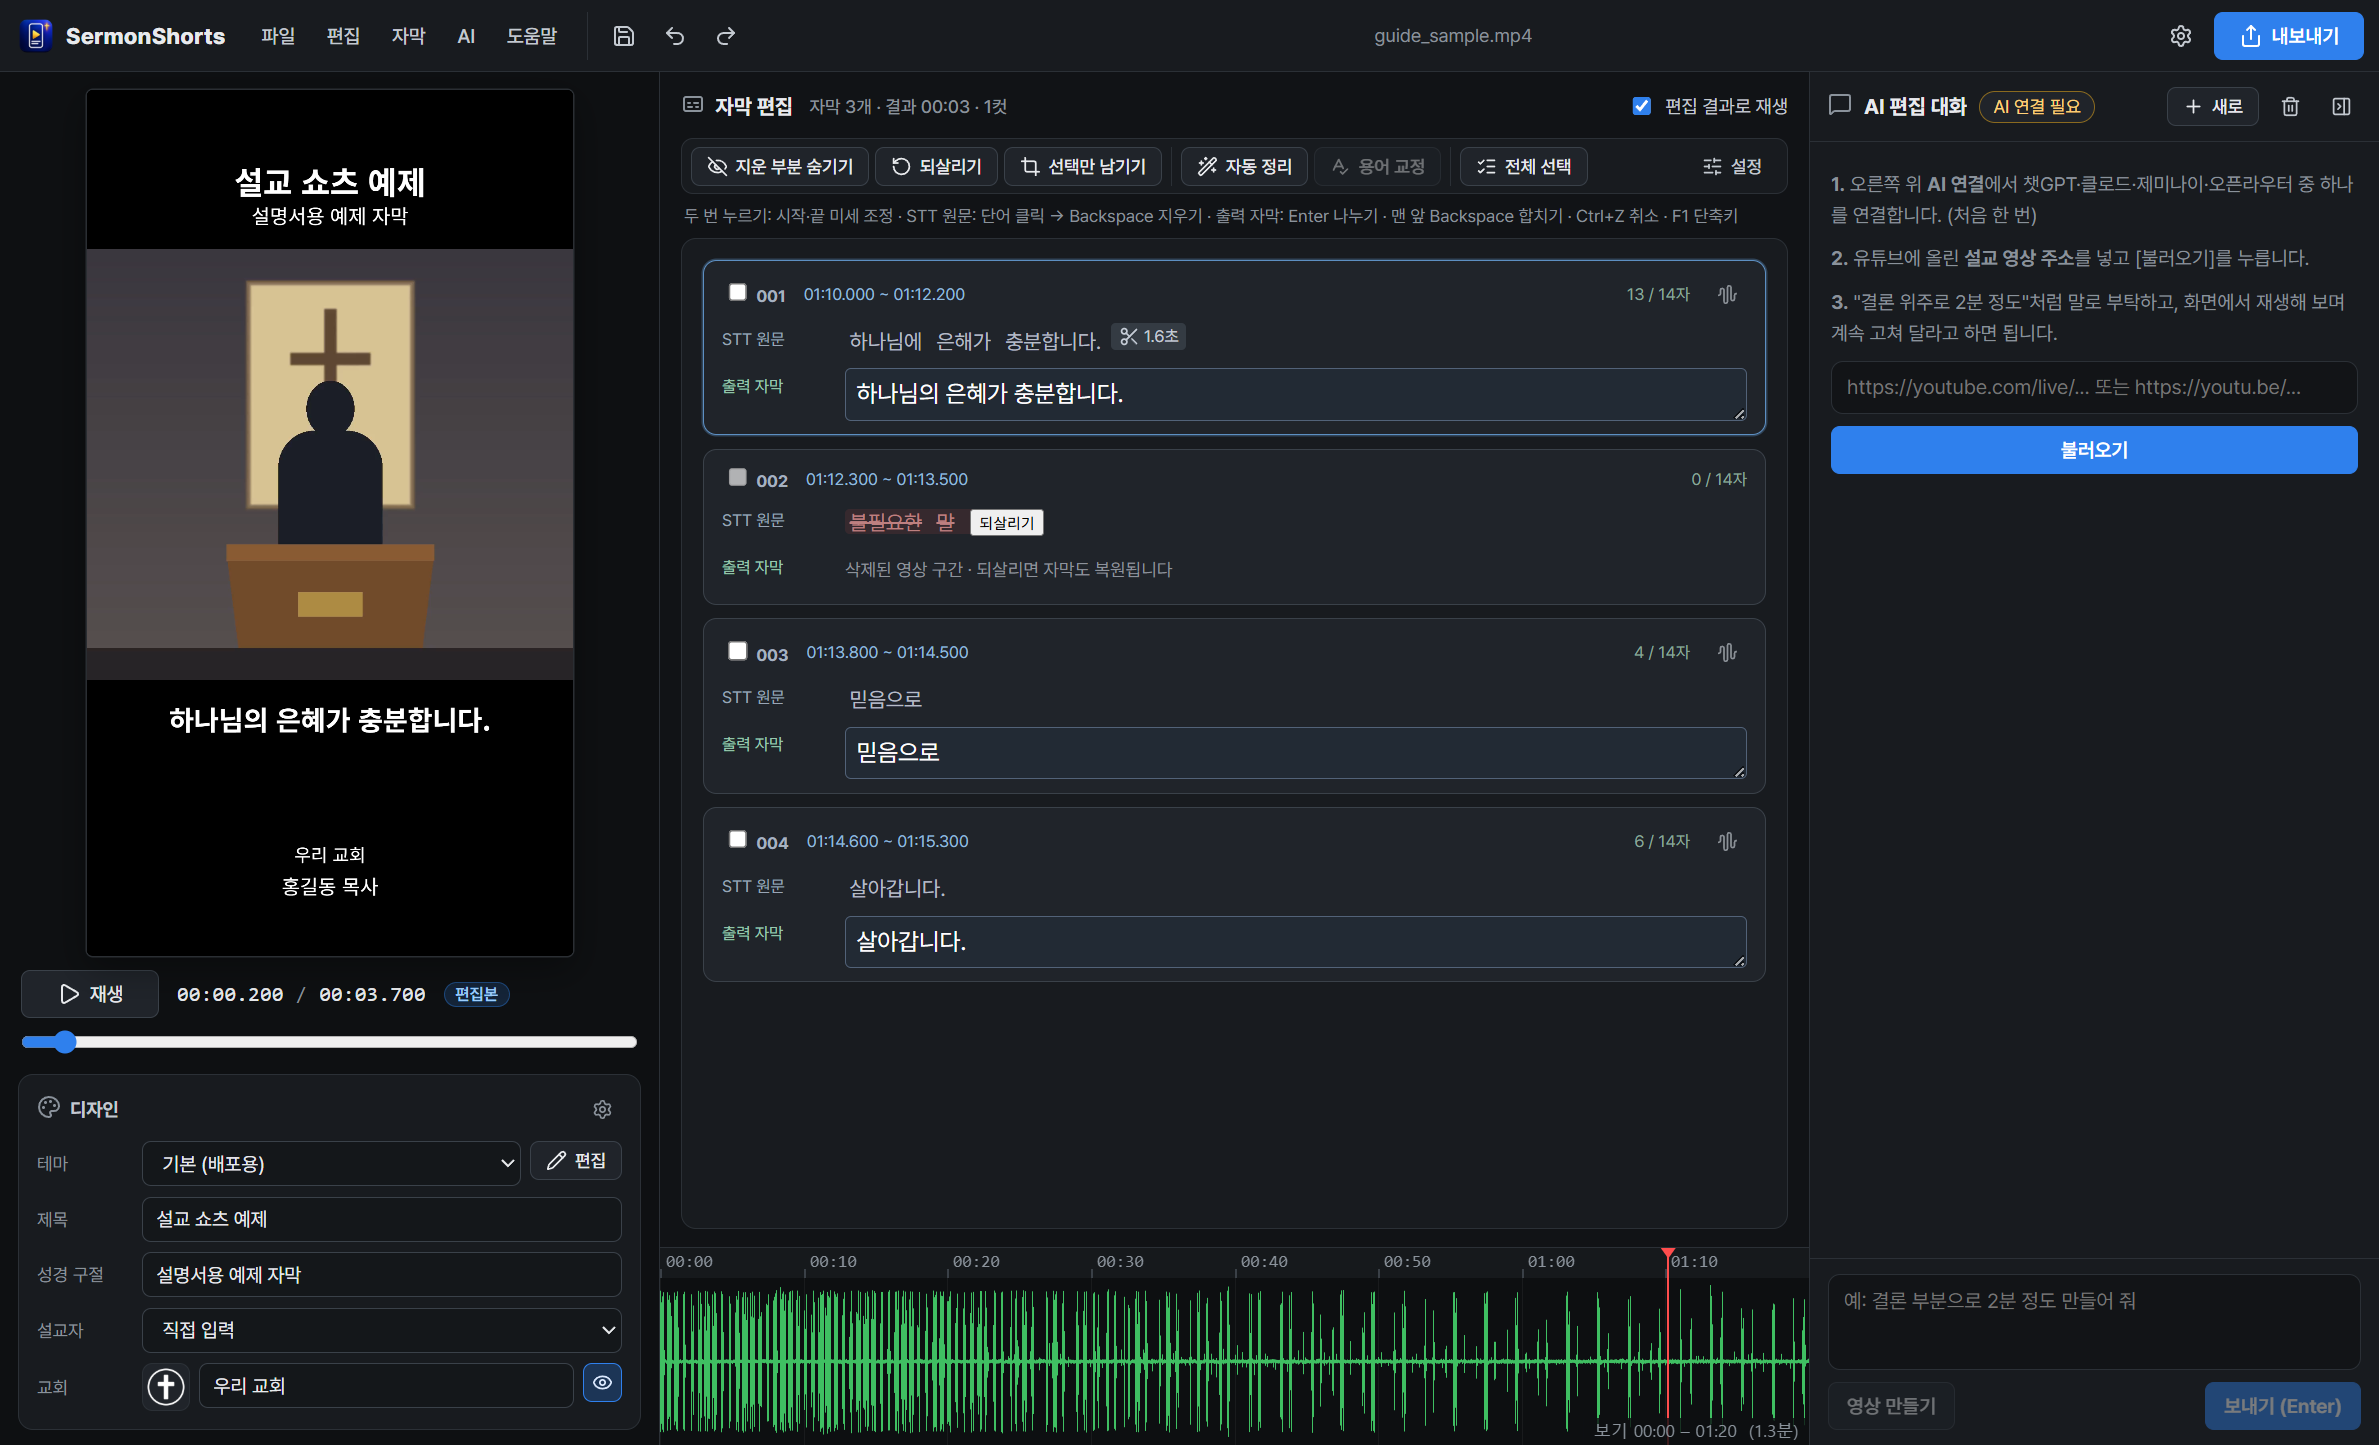
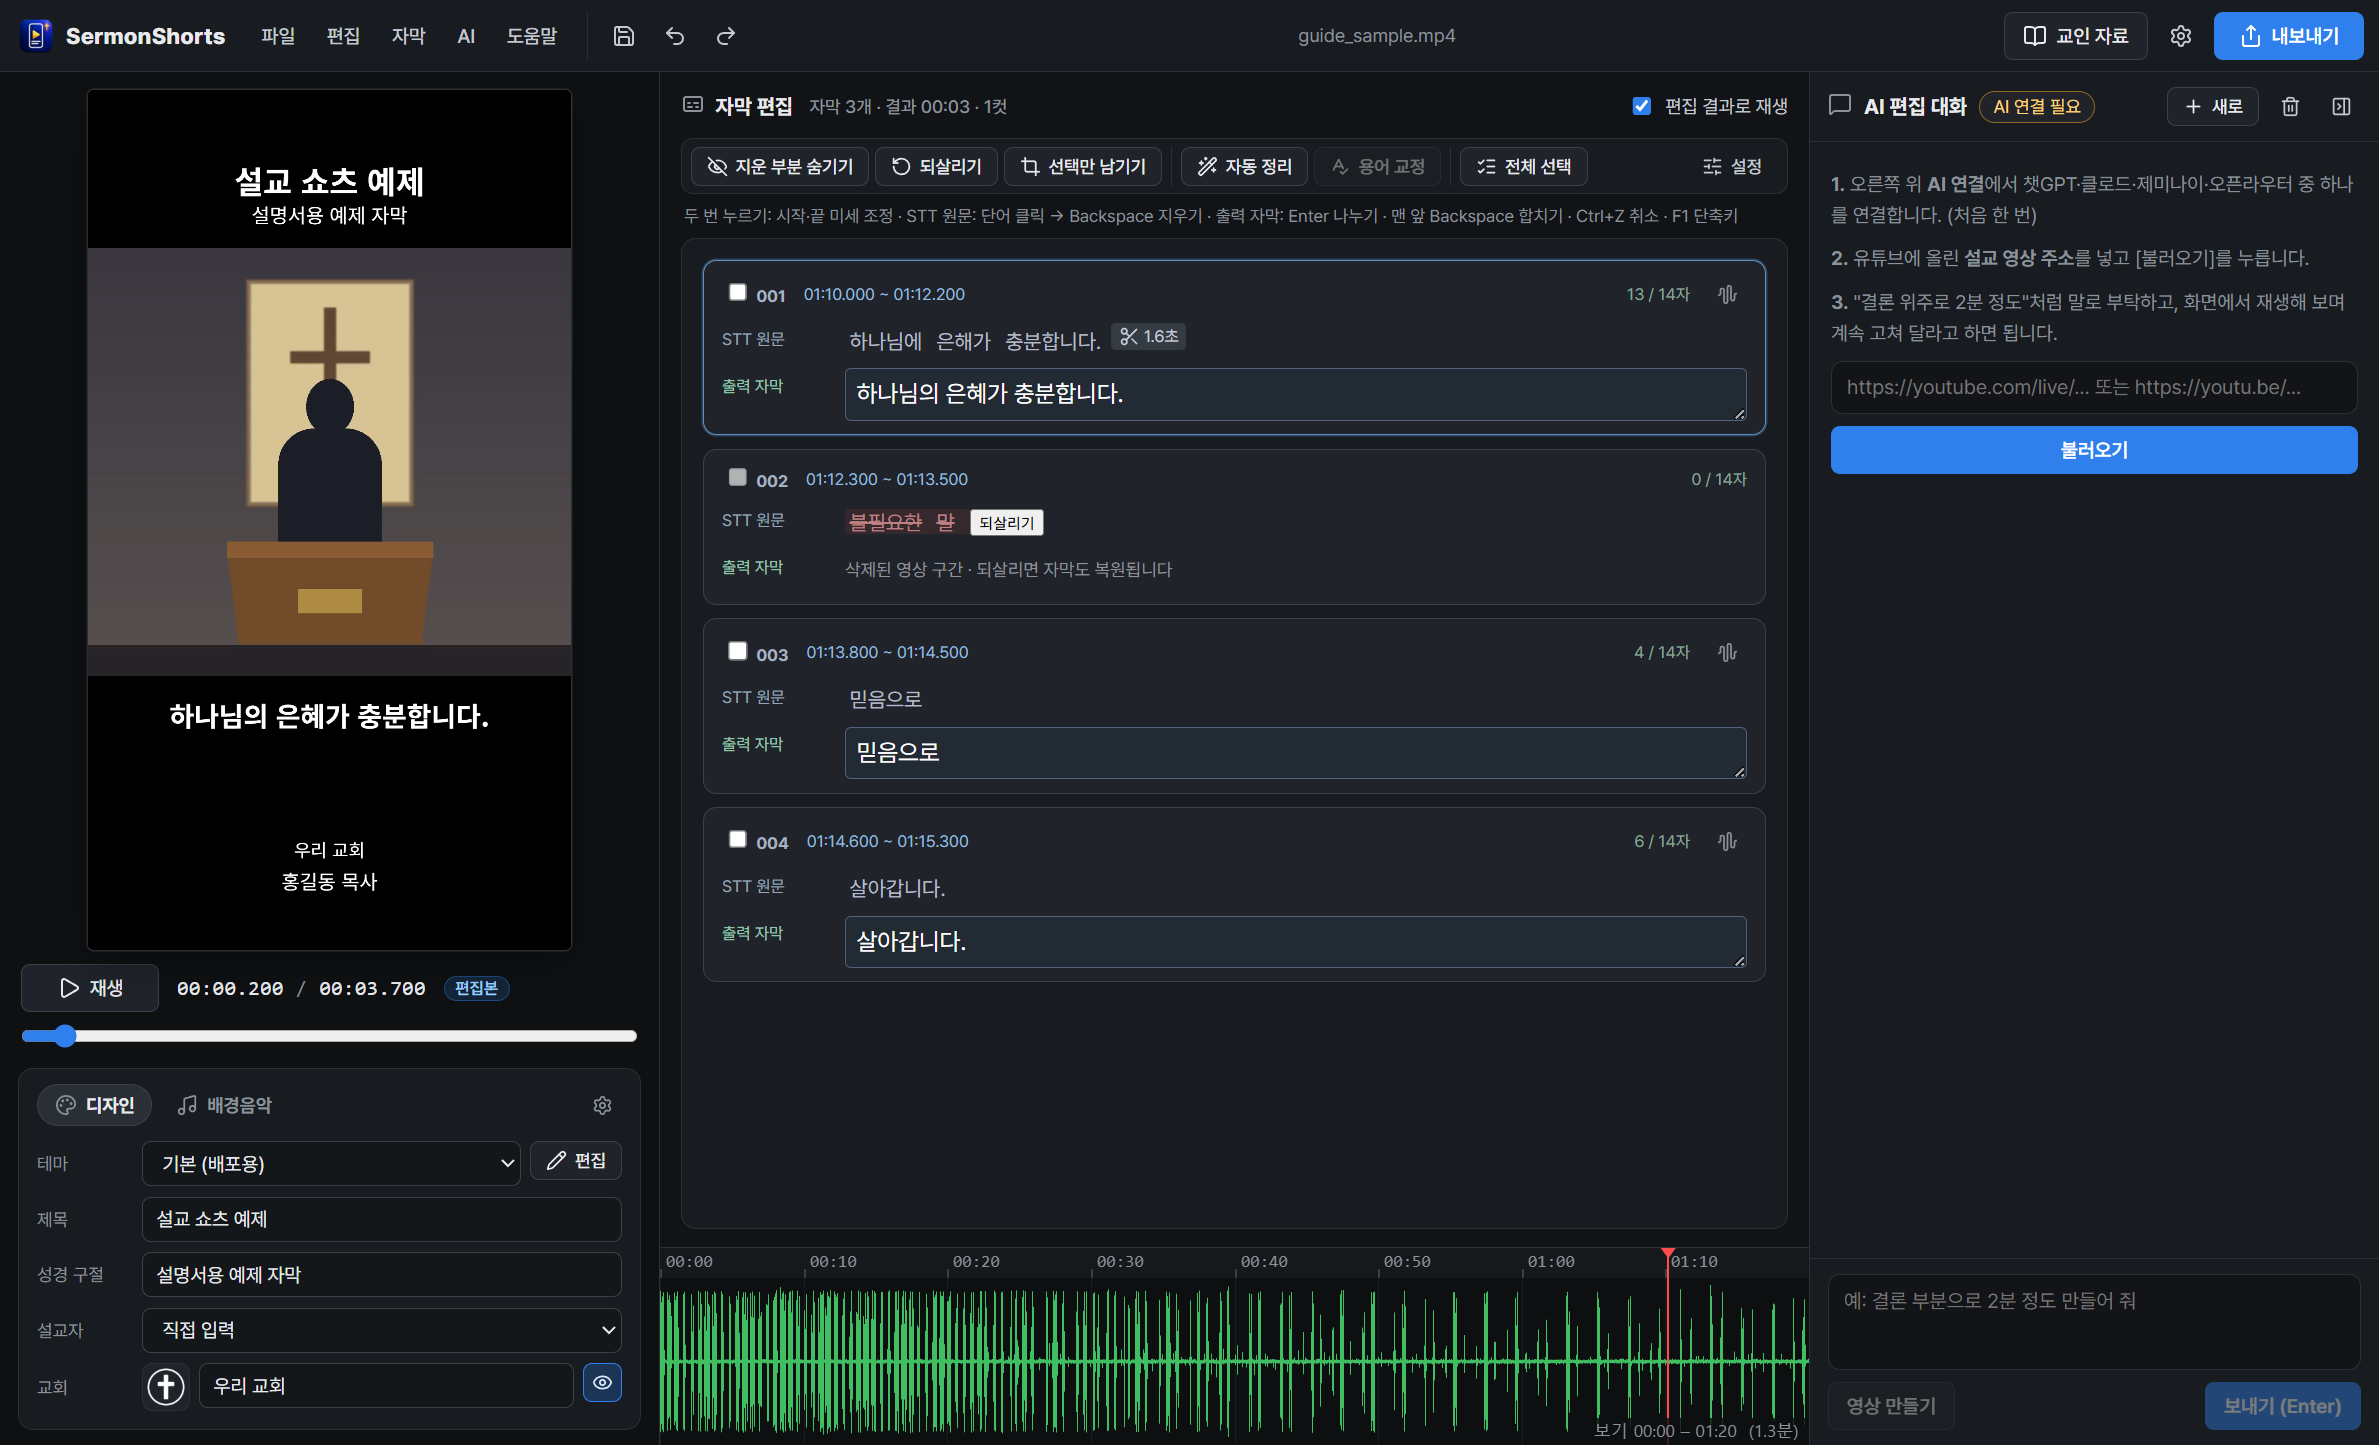
v0.3.15: 설명서에 배경음악·교인 자료 안내와 그림 추가
- 사용 설명서·README 에 배경음악(구간·맞추기·페이드·출처 표시)과 교인 자료 스튜디오 안내, 예제 영상으로 만든 그림 4장 추가
- 음악 출처·라이선스 고지 (음악 파일은 앱에 포함하지 않음)

diff --git a/src/renderer/guide-capture.js b/src/renderer/guide-capture.js
@@ -31,6 +31,15 @@ window.addEventListener('ss:run-test-script',async e=>{
      await SS.openYoutubeImport();await wait(200);await shot('08-youtube');document.getElementById('yt-cancel')?.click();
      document.getElementById('btnAiRecommend').click();await wait(300);await shot('09-ai-options');document.querySelectorAll('.modal-overlay').forEach(el=>el.remove());
      await SS.openSysCheck();await wait(300);await shot('10-system-check');close();
+     // 배경음악 (설명서 그림): 목록 → 곡 넣기(파형) · 교인 자료 스튜디오 (예제 자료, AI 안 부름)
+     document.getElementById('tabMusic').click();SS.bgmUi.openLib();await wait(500);await shot('15-bgm-library');SS.bgmUi.closeLib();
+     SS.useBgm('meditation-impromptu-01');const tw=Date.now();while(!document.getElementById('bgmWaveMsg').hidden&&Date.now()-tw<40000)await wait(300);
+     SS.state.bgm.trackStart=12;SS.state.bgm.trackEnd=40;SS.state.bgm.align='end';SS.bgmUi.render();SS.bgmUi.drawWave();await wait(300);await shot('16-bgm-panel');
+     SS.state.bgm=null;document.getElementById('tabDesign').click();
+     await SS.openMaterials();await wait(500);await shot('17-materials');
+     const ex={title:'은혜로 사는 사람',verse:'고린도후서 12:9',summary:'하나님의 은혜는 우리의 약함 속에서 온전해집니다. 약함을 숨기지 않고 은혜를 의지할 때 믿음으로 살아갑니다.',icebreaker:'요즘 나를 가장 지치게 하는 일은 무엇인가요?',questions:[{q:'설교에서 은혜가 충분하다는 말은 어떤 뜻이었나요?',note:'약함 속에서 온전해지는 능력'},{q:'나의 약함을 하나님 앞에 내어놓기 어려운 까닭은 무엇일까요?',note:''},{q:'이번 주 믿음으로 살아가기 위해 붙들 한 문장을 나눠 봅시다.',note:''}],action:'날마다 감사 한 가지를 적고 함께 나누기',prayer:'주님, 우리의 약함 속에 주님의 은혜가 충분함을 믿고 살게 하소서.'};
+     const ms=SS._materialsTest.store();ms.results={smallgroup:{data:SS.materials.normalize('smallgroup',ex),options:ms.options,meta:{church:'우리 교회',title:'설교 쇼츠 예제',verse:'고린도후서 12:9',speaker:'홍길동 목사',date:'2026년 10월 25일'},made:new Date().toISOString(),provider:'예제'}};
+     SS._materialsTest.show('results');await wait(400);await shot('18-materials-doc');SS.closeMaterials();SS.state.materials=null;
    }
    SS.toast('오프라인 실행·자막 편집·MP4/SRT 출력 확인 완료');report.success=true;
  }catch(err){report.success=false;report.error=err.stack||err.message;}

diff --git a/src/renderer/bgm-ui.js b/src/renderer/bgm-ui.js
@@ -184,7 +184,7 @@
     if (!m) {
       m = document.createElement('div'); m.id = 'bgmLib'; m.className = 'modal-overlay bgm-lib';
       m.innerHTML = `<div class="modal-dialog bgm-dialog" role="dialog" aria-label="배경음악 고르기">
-        <div class="bgm-lib-head"><div><h3>배경음악 고르기</h3><p>설교 쇼츠에 많이 쓰는 분위기로 골랐습니다. <b>퍼블릭 도메인·CC0·CC BY</b>처럼 저작권이 공개된 곡만 넣었고, 음악은 앱에 들어 있지 않아 원래 사이트에서 바로 재생합니다.</p></div>
+        <div class="bgm-lib-head"><div><h3>배경음악 고르기</h3><p>설교 쇼츠에 많이 쓰는 분위기로 골랐습니다. <b>퍼블릭 도메인과 CC BY</b>처럼 저작권이 공개된 곡만 넣었고, 음악은 앱에 들어 있지 않아 원래 사이트에서 바로 재생합니다.</p></div>
         <button class="btn ghost icon-only ico i-x" data-close title="닫기"></button></div>
         <div class="bgm-moods" id="bgmMoods"></div>
         <div class="bgm-list" id="bgmList"></div>

diff --git a/docs/USER_GUIDE.md b/docs/USER_GUIDE.md
@@ -18,8 +18,8 @@
 
 ## 화면 구성
 
-- **맨 위**: 왼쪽에 **파일·편집·자막·AI·도움말** 메뉴와 저장·실행 취소·다시 실행 단추, 가운데에 열린 영상 이름, 오른쪽에 **⚙ 설정**과 **내보내기**가 있습니다. 메뉴를 연 상태에서는 ←/→로 옆 메뉴, ↑/↓로 항목을 고릅니다.
-- **왼쪽**: 쇼츠 미리보기, 재생, 그 아래 **디자인**(테마·제목·성경 구절·설교자).
+- **맨 위**: 왼쪽에 **파일·편집·자막·AI·도움말** 메뉴와 저장·실행 취소·다시 실행 단추, 가운데에 열린 영상 이름, 오른쪽에 **교인 자료**, **⚙ 설정**, **내보내기**가 있습니다. 메뉴를 연 상태에서는 ←/→로 옆 메뉴, ↑/↓로 항목을 고릅니다.
+- **왼쪽**: 쇼츠 미리보기, 재생, 그 아래 **디자인 | 배경음악** 카드(테마·제목·성경 구절·설교자·교회 / 배경음악).
 - **가운데**: **자막 편집**. 위 도구 줄에 지운 부분 숨기기·되살리기·선택만 남기기, 자동 정리·용어 교정, 전체 선택이 있고, 오른쪽 **설정**에서 자막 길이·컷 여백·페이드를 정합니다. 아래는 파형입니다.
 - **오른쪽**: **AI 편집 대화**. 오른쪽 위 접기 단추로 접으면 자막 칸이 넓어집니다.
 - 처음 화면에는 **유튜브 주소로 AI 편집 / 내 컴퓨터의 영상 / 저장한 프로젝트** 세 가지 시작 카드가 있습니다.
@@ -226,6 +226,22 @@
 
 <!-- page -->
 
+### 배경음악
+
+디자인 카드의 **배경음악** 탭에서 **음악 고르기**를 누르면 설교 쇼츠에 많이 쓰는 분위기(잔잔한 피아노·묵상·희망·찬송가 연주·클래식)로 고른 음악 목록이 열립니다. 모두 **퍼블릭 도메인이거나 CC BY**처럼 저작권이 공개된 곡입니다. 음악은 프로그램에 들어 있지 않고 원래 사이트(incompetech.com, 위키미디어 공용)에서 **바로 재생**하므로 인터넷이 필요합니다. 줄마다 ▶ 단추로 듣고 다시 누르면 일시정지합니다. 마음에 들면 **이 음악 쓰기**.
+
+![배경음악 고르기](images/15-bgm-library.png)
+
+- **구간**: 파형의 파란 손잡이를 끌거나 시간을 적어 곡에서 쓸 부분을 고릅니다. **구간 듣기**로 그 부분만 들어 봅니다.
+- **맞추기**: **처음에 시작**은 영상이 시작할 때 음악도 시작하고, **끝에 끝남**은 영상이 끝날 때 음악도 끝나도록 맞춥니다. 구간이 영상보다 길면 앞부분(처음에 시작) 또는 뒷부분(끝에 끝남)만 쓰고, 짧으면 끝에 맞출 때 그만큼 늦게 시작합니다. 파형의 진한 부분이 실제로 쓰이는 곳, 노란 선이 페이드 모양입니다.
+- **페이드 인·아웃**과 **크기**(말소리에 비한 음악 크기, 기본 20%)를 정합니다.
+- 왼쪽 **재생**(또는 Space)으로 **영상과 함께** 들어 보고, 내보낼 때 말소리 위에 섞입니다. 음악은 내보낼 때만 잠깐 받아 둡니다.
+- **CC BY** 곡은 영상 설명란에 출처를 적어야 합니다. 앱에서 유튜브로 바로 올리면 출처가 설명에 자동으로 들어가고, 직접 올릴 때는 카드 아래 **복사**를 눌러 붙여 넣으세요. 같은 곡을 쓴 다른 영상 때문에 유튜브 저작권 알림이 드물게 올 수 있습니다.
+
+![배경음악 구간·맞추기·페이드](images/16-bgm-panel.png)
+
+<!-- page -->
+
 ## 10. 저장하고 완성 영상 내보내기
 
 ### 작업 저장: 다음에 이어서 편집
@@ -249,7 +265,25 @@ MP4는 **1080×1920, H.264 영상 + AAC 음성**입니다. SRT에는 STT 오류 
 
 <!-- page -->
 
-## 11. 선택 기능: AI 쇼츠 추천
+## 11. 교인 자료 만들기 (소그룹·QT·퀴즈·요약·묵상카드·가정예배지)
+
+오른쪽 위 **교인 자료**(또는 **AI → 교인 자료 만들기**)를 누르면 설교 한 편으로 성도들에게 나눠 줄 자료를 만드는 밝은 작업 화면이 열립니다.
+
+![교인 자료 스튜디오](images/17-materials.png)
+
+1. **설교 원고**: **이 영상의 설교**는 AI 편집 대화에 넣은 유튜브 설교 자막 전체(AI 가 찾은 설교 부분)를 가져오고, 없으면 편집 중인 영상의 자막을 씁니다. **직접 입력**하거나 **파일 불러오기**(.txt·Word .docx·자막 .srt)도 됩니다. 아래 칸에서 바로 고칠 수 있고, 설교 제목·본문·설교자·날짜를 확인합니다.
+2. **만들 자료**: 소그룹 자료, QT 자료, 성경 퀴즈, 설교 요약, 묵상카드, 가정예배지 가운데 고릅니다. **상세 설정**에서 대상(장년·청년·청소년·어린이·유아)과 소그룹 형식(나눔형·공부형), QT 일수·본문·형식, 퀴즈(OX·객관식), 요약 분량, 묵상카드 분위기·장수를 정합니다.
+3. **선택한 자료 만들기**: 연결한 AI(챗GPT·클로드·제미나이·오픈라우터)가 설교에 있는 내용만으로 만듭니다. 자료마다 30초~1분쯤 걸립니다.
+
+**만든 자료**에서 글자를 누르면 그 자리에서 고칩니다. 인쇄 자료는 **PDF로 저장**·**인쇄**, 묵상카드는 디자인(새벽 남색·종이·하늘·영상 장면)을 골라 **이미지로 저장**(1080×1350 PNG), 어떤 자료든 **글 복사**로 카톡·문자에 붙여 넣을 수 있습니다. 만든 자료는 프로젝트를 저장할 때 함께 저장됩니다.
+
+![만든 자료: A4 소그룹 나눔지](images/18-materials-doc.png)
+
+AI 가 만든 글은 꼭 한 번 읽어 보고 다듬어 주세요. 성경 본문은 장절만 적도록 했으니 필요하면 교회에서 쓰는 성경 본문을 붙여 넣으세요.
+
+<!-- page -->
+
+## 12. 선택 기능: AI 쇼츠 추천
 
 기본 자막 편집과 로컬 음성 인식에는 Gemini API 키가 필요하지 않습니다. **AI 추천·AI 교정·AI 연결 확인은 외부 API를 사용하며 비용이 발생할 수 있습니다**. 결제와 한도는 본인의 Google 계정에서 확인하세요.
 
@@ -266,7 +300,7 @@ MP4는 **1080×1920, H.264 영상 + AAC 음성**입니다. SRT에는 STT 오류 
 
 <!-- page -->
 
-## 12. 막힐 때와 자주 쓰는 키
+## 13. 막힐 때와 자주 쓰는 키
 
 **아무것도 먼저 다시 설치하기보다 도움말 → 시스템 점검을 확인하세요.**
 

diff --git a/README.md b/README.md
@@ -91,6 +91,16 @@ STT 원문이나 출력 자막을 두 번 누르면 그 자막의 시작·끝을
 
 ![자막을 두 번 눌러 연 시작·끝 미세 조정 패널](docs/images/14-fine.png)
 
+### 저작권 걱정 없는 배경음악
+설교 쇼츠에 많이 쓰는 잔잔한 피아노·찬송가 연주 등 퍼블릭 도메인·CC BY 음악 24곡을 추천합니다. 설치 파일에 넣지 않고 원래 사이트에서 바로 재생하며, 곡의 쓸 구간·페이드 인/아웃·영상 처음/끝에 맞추기·크기를 정해 미리보기에서 함께 듣고 내보낼 때 섞습니다.
+
+![배경음악 구간·맞추기·페이드](docs/images/16-bgm-panel.png)
+
+### 교인 배포 자료 (소그룹·QT·퀴즈·요약·묵상카드·가정예배지)
+설교 한 편으로 성도들에게 나눠 줄 자료를 연결한 AI 로 한 번에 만들고, 화면에서 고친 뒤 A4 PDF·인쇄·카드 이미지·카톡용 글로 나눕니다.
+
+![교인 자료 스튜디오](docs/images/17-materials.png)
+
 ### 우리 교회 테마
 교회 이름·로고는 디자인 카드에서 바로 고치고(미리보기에 곧바로 반영), 설교자 목록을 저장하고, 제목·성경 구절·영상·자막 위치와 글꼴·색을 테마로 만들어 둡니다. 기본 테마 11종이 들어 있습니다. 흐린 영상 배경, 두 줄 제목(줄마다 다른 색), `*강조*` 색, 말하는 단어를 따라가는 단어 강조 자막, 설교자 이름표, 둥근 영상 카드도 테마로 고를 수 있습니다.
 

diff --git a/docs/THIRD_PARTY_NOTICES.md b/docs/THIRD_PARTY_NOTICES.md
@@ -1,5 +1,14 @@
 # Third-party software in the Windows beta
 
+## 배경음악 (앱에 포함하지 않음)
+
+배경음악 추천 목록(`src/shared/bgm-catalog.js`)에는 곡 이름·출처·라이선스와 원래 주소만 들어 있고 음악 파일은 설치 파일에 없습니다. 사용자가 들을 때 원래 사이트에서 스트리밍하고, 영상을 내보낼 때만 사용자 캐시에 받아 섞습니다.
+
+- Kevin MacLeod (incompetech.com) — Creative Commons Attribution 4.0. 영상 설명에 곡별 출처 문구를 적어야 합니다.
+- United States Air Force Band / U.S. Marine Band 녹음 (Wikimedia Commons) — 미국 연방 정부 저작물, 퍼블릭 도메인.
+- "Clair de lune" (Debussy), 연주 Laurens Goedhart (Wikimedia Commons) — Creative Commons Attribution 3.0.
+
+
 The application code is not granted an open-source license by this document. The repository is public for viewing only.
 
 - **Electron**: MIT. The distribution includes Electron's LICENSE and Chromium third-party notices. Source: https://github.com/electron/electron
